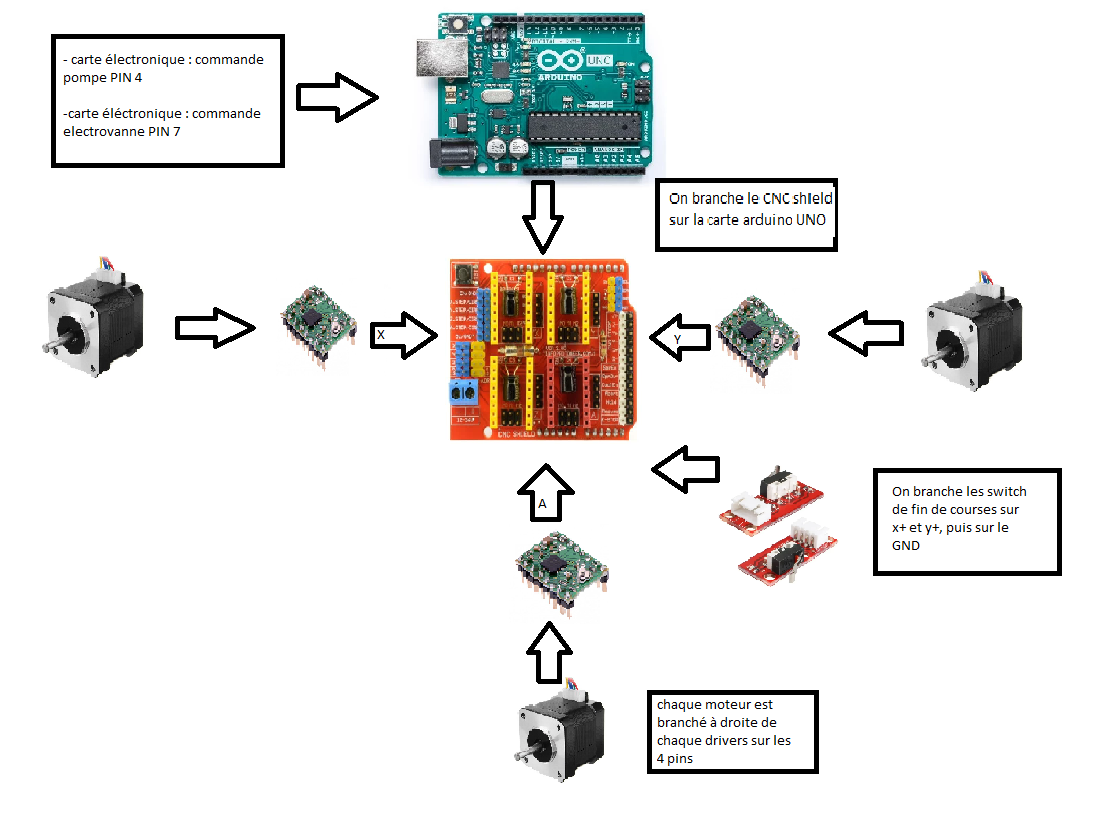
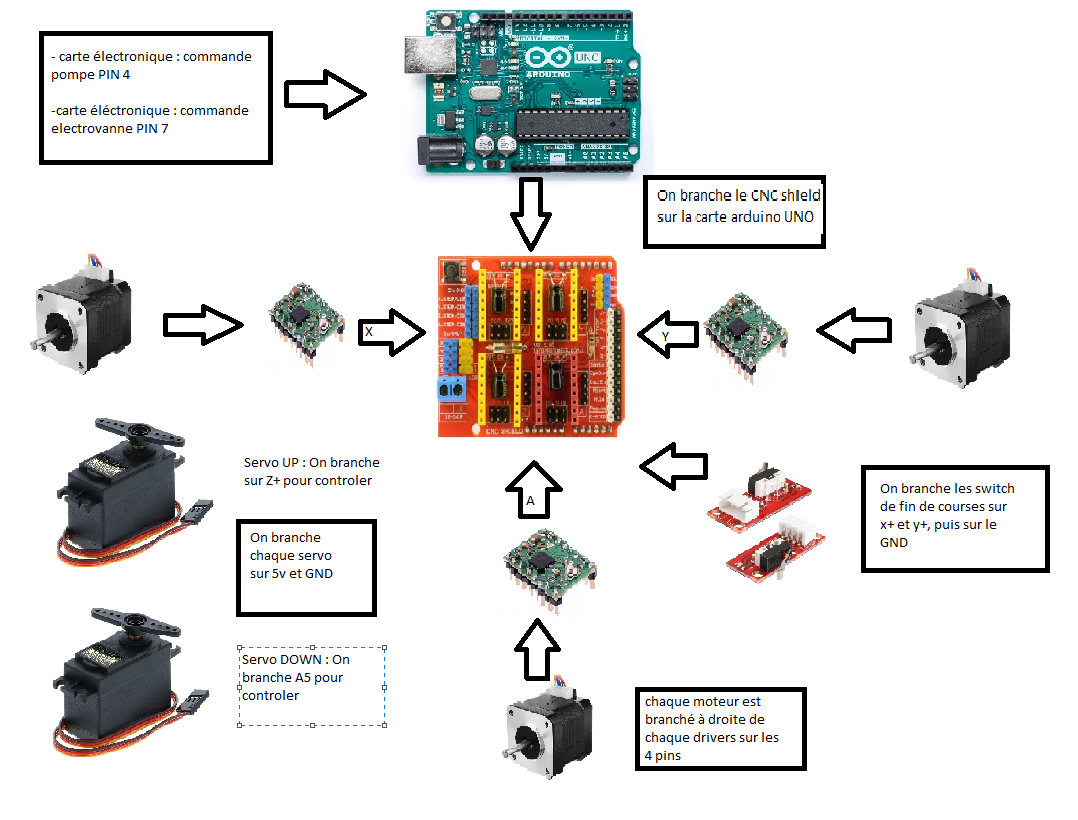
ffffdddd

diff --git a/docs/etapes/etape_3.md b/docs/etapes/etape_3.md
@@ -9,36 +9,36 @@ nav_order: 3
 
 ## Architecture Logicielle & Programmation
 
-[cite_start]Le contrôle du Puzzle Bot repose sur un écosystème logiciel divisé en deux parties principales : un **firmware embarqué sur mesure** (C++/Arduino) pour la gestion matérielle basse couche, et un **programme superviseur** (Python) pour l'intelligence artificielle et le traitement d'image[cite: 321, 326].
+Le contrôle du Puzzle Bot repose sur un écosystème logiciel divisé en deux parties principales : un **firmware embarqué sur mesure** (C++/Arduino) pour la gestion matérielle basse couche, et un **programme superviseur** (Python) pour l'intelligence artificielle et le traitement d'image.
 
-### 1. Firmware Arduino (Basse couche)
-[cite_start]Plutôt que d'utiliser un micrologiciel générique comme GRBL, incapable de gérer nativement nos deux servomoteurs et les cycles spécifiques de la pompe pneumatique, nous avons développé un **firmware C++ entièrement personnalisé**[cite: 316, 317, 318, 321].
+### Firmware Arduino
+Plutôt que d'utiliser un micrologiciel générique comme GRBL, incapable de gérer nativement nos deux servomoteurs et les cycles spécifiques de la pompe pneumatique, nous avons développé un firmware C++ entièrement personnalisé.
 
-[cite_start]Le code est structuré de manière modulaire afin d'isoler les responsabilités[cite: 325]:
-* [cite_start]`config.h` : Centralisation de l'ensemble des constantes, broches et calibrations mécaniques (ex: rapports de pas/mm)[cite: 296, 308].
-* [cite_start]`steppers.cpp` : Gestion des rampes d'accélération et déplacements synchronisés des axes X et Y[cite: 324].
-* [cite_start]`pick_place.cpp` : Séquencement temporel de la préhension (Descente du bras $\rightarrow$ temporisation $\rightarrow$ activation du vide $\rightarrow$ remontée)[cite: 324, 392].
-* [cite_start]`parser.cpp` : Analyseur syntaxique chargé de décoder les commandes envoyées sur le port série USB (115 200 bauds) selon un protocole textuel strict terminé par le mot-clé `END`[cite: 400, 401].
+Le code est structuré de manière modulaire afin d'isoler les responsabilités :
+* `config.h` : Centralisation de l'ensemble des constantes, broches et calibrations mécaniques (ex: rapports de pas/mm).
+* `steppers.cpp` : Gestion des rampes d'accélération et déplacements synchronisés des axes X et Y.
+* `pick_place.cpp` : Séquencement temporel de la préhension (Descente du bras, temporisation, activation du vide, remontée)
+* `parser.cpp` : Analyseur syntaxique chargé de décoder les commandes envoyées sur le port série USB selon un protocole textuel strict terminé par le mot-clé.
 
-### 2. Superviseur Python et Vision par Ordinateur
-[cite_start]L'intelligence du robot s'exécute sur un ordinateur via un script Python orchestrant la résolution[cite: 429]. 
+### Superviseur Python et Vision par Ordinateur
+L'intelligence du robot s'exécute sur un ordinateur via un script Python orchestrant la résolution. 
 
-#### A. Pipeline de traitement d'image (OpenCV)
-[cite_start]Une caméra grand angle capture le plateau de jeu[cite: 328]. [cite_start]L'image brute subit un pipeline de traitement numérique avant analyse pour maximiser sa netteté[cite: 339, 340]:
-1. [cite_start]**Correction de distorsion :** Redressement de l'image via des coefficients optiques calculés au préalable avec une mire d'échiquier[cite: 331, 332, 341].
-2. [cite_start]**Homographie et correction géométrique (TPS) :** Même après correction optique, la perspective et l'angle de la caméra introduisent des erreurs spatiales[cite: 365, 366]. [cite_start]Nous appliquons un algorithme mathématique **Thin Plate Spline (TPS)** basé sur une grille de calibration de 16 points réels[cite: 369, 372]. [cite_start]Cette correction réduit l'erreur moyenne de détection de plus de 50 % (passant de $0.3194$ à $0.1564$ unité), garantissant une précision millimétrique sur le plateau[cite: 485, 487, 488].
+#### Pipeline de traitement d'image
+Une caméra grand angle capture le plateau. L'image brute subit une série de traitement numérique avant analyse pour maximiser sa netteté:
+**Correction de distorsion :** Redressement de l'image via des coefficients optiques calculés au préalable avec une mire d'échiquier.
+**Homographie et correction géométrique (TPS) :** Même après correction optique, la perspective et l'angle de la caméra introduisent des erreurs spatiales. Nous appliquons un algorithme mathématique **Thin Plate Spline (TPS)** basé sur une grille de calibration de 16 points réels. Cette correction réduit l'erreur moyenne de détection de plus de 50 % (passant de $0.3194$ à $0.1564$ unité), garantissant une précision millimétrique sur le plateau
 
 #### B. Détection des pièces et angles (ArUco)
-[cite_start]Le script utilise la bibliothèque `OpenCV ArUco` pour localiser instantanément les 4 pièces disposées sur la zone de détection[cite: 329, 436]. [cite_start]Les coordonnées en pixels sont converties en pas moteurs réels grâce à des repères d'origine fixes installés sur le châssis[cite: 348, 358]. 
-[cite_start]L'angle de chaque pièce est calculé en comparant le vecteur d'orientation de son marqueur à l'axe de référence du robot[cite: 424, 425].
+Le script utilise la bibliothèque `OpenCV ArUco` pour localiser instantanément les 4 pièces disposées sur la zone de détection. Les coordonnées en pixels sont converties en pas moteurs réels grâce à des repères d'origine fixes installés sur le châssis.
+L'angle de chaque pièce est calculé en comparant le vecteur d'orientation de son marqueur à l'axe de référence du robot.
 
 ### 3. Cycle d'exécution et protocole d'échange (Handshake)
-[cite_start]La communication entre Python et l'Arduino est sécurisée par un mécanisme de *handshake* (poignée de main) pour éviter toute surcharge de la mémoire tampon de l'Arduino[cite: 405]:
-1. [cite_start]Python analyse le plateau par la caméra et génère une suite d'instructions (G-code personnalisé)[cite: 436, 437].
-2. [cite_start]Cette chaîne est découpée en micro-paquets (ex: `h;x4998s200;y3724s200;p1;END`)[cite: 403, 438].
-3. [cite_start]Python transmet un paquet et se met en attente[cite: 439].
-4. [cite_start]L'Arduino reçoit les ordres, les exécute fidèlement (déplacement, activation de l'électrovanne, etc.) puis retourne le signal `ACK` ou `OK` une fois la tâche physiquement accomplie[cite: 404, 439, 442].
-5. [cite_start]À la réception du signal de confirmation, Python envoie le paquet suivant[cite: 439].
+La communication entre Python et l'Arduino est sécurisée par un mécanisme de *handshake* (poignée de main) pour éviter toute surcharge de la mémoire tampon de l'Arduino
+Python analyse le plateau par la caméra et génère une suite d'instructions (G-code personnalisé).
+Cette chaîne est découpée en micro-paquets (ex: `h;x4998s200;y3724s200;p1;END`).
+Python transmet un paquet et se met en attente.
+L'Arduino reçoit les ordres, les exécute fidèlement (déplacement, activation de l'électrovanne, etc.) puis retourne le signal `ACK` ou `OK` une fois la tâche physiquement accomplie.
+À la réception du signal de confirmation, Python envoie le paquet suivant.
 
 
 # Electronique
@@ -46,27 +46,32 @@ nav_order: 3
 
 ## 🔌 Architecture Électronique & Câblage
 
-[cite_start]L'architecture électronique du Puzzle Bot est conçue autour d'une carte microcontrôleur **Arduino UNO** sur laquelle vient s'emboîter une carte d'extension **CNC Shield V3**. [cite_start]Cette configuration permet de centraliser la distribution de la puissance (12V) et les signaux de commande de l'ensemble des actionneurs et capteurs.
+L'architecture électronique du Puzzle Bot est conçue autour d'une carte microcontrôleur **Arduino UNO** sur laquelle vient s'emboîter une carte d'extension **CNC Shield V3**. Cette configuration permet de centraliser la distribution de la puissance (12V) et les signaux de commande de l'ensemble des actionneurs et capteurs.
+
+Voici le schéma synoptique de notre installation électronique (mettant en évidence les liaisons entre l'Arduino, le CNC Shield, les moteurs et les capteurs) :
+
+![Schéma de câblage](../images/SchémaDorian.png)
+
 
 ### 1. Tableau des connexions (Brochage)
 
-[cite_start]Pour garantir la maintenabilité du robot, l'intégralité du câblage physique a été répertoriée selon l'affectation suivante[cite: 296]:
+Pour garantir la maintenabilité du robot, l'intégralité du câblage physique a été répertoriée selon l'affectation suivante :
 
 | Composant | Broche Arduino | Rôle sur le CNC Shield | Type de signal |
 | :--- | :---: | :---: | :--- |
-| **Moteurs X (x2)** | D2 / D5 | X.STEP / X.DIR | [cite_start]Impulsions de commande (Miroir) [cite: 290, 446] |
-| **Moteur Y** | D3 / D6 | Y.STEP / Y.DIR | [cite_start]Impulsions de commande [cite: 447] |
-| **Fin de course X** | D9 | X+ | [cite_start]Entrée numérique (Pull-up) [cite: 295, 448] |
-| **Fin de course Y** | D10 | Y+ | [cite_start]Entrée numérique (Pull-up) [cite: 295, 449] |
-| **Servo Rotation** | D11 | Z+ | [cite_start]Sortie PWM (0-180°) [cite: 293, 416, 450] |
-| **Servo Z (Bras)** | A5 | SCL | [cite_start]Sortie PWM (Bit-banging) [cite: 292, 389, 451] |
-| **Pompe à vide** | D4 | Z.STEP | [cite_start]Commande Tout-ou-Rien (via MOSFET) [cite: 453] |
-| **Électrovanne** | D7 | Z.DIR | [cite_start]Commande Tout-ou-Rien (via MOSFET) [cite: 454] |
+| **Moteurs X (x2)** | D2 / D5 | X.STEP / X.DIR | Impulsions de commande (Miroir) |
+| **Moteur Y** | D3 / D6 | Y.STEP / Y.DIR | Impulsions de commande |
+| **Fin de course X** | D9 | X+ | Entrée numérique (Pull-up) |
+| **Fin de course Y** | D10 | Y+ | Entrée numérique (Pull-up) |
+| **Servo Rotation** | D11 | Z+ | Sortie PWM (0-180°) |
+| **Servo Z (Bras)** | A5 | SCL | Sortie PWM (Bit-banging) |
+| **Pompe à vide** | D4 | Z.STEP | Commande Tout-ou-Rien (via MOSFET) |
+| **Électrovanne** | D7 | Z.DIR | Commande Tout-ou-Rien (via MOSFET) |
 
 ### 2. Gestion de la puissance et carte MOSFET (KiCad)
-[cite_start]Les sorties de l'Arduino UNO délivrent un courant maximal insuffisant et une tension limitée à 5V[cite: 288, 445]. [cite_start]Or, l'électrovanne et la pompe pneumatique requièrent une alimentation stable en **12 Volts**. 
+Les sorties de l'Arduino UNO délivrent un courant maximal insuffisant et une tension limitée à 5V. Or, l'électrovanne et la pompe pneumatique requièrent une alimentation stable en **12 Volts**. 
 
-Pour résoudre ce problème, nous avons développé une carte électronique d'interface de puissance sous le logiciel **KiCad**. Cette carte intègre des transistors **MOSFET** faisant office de relais électroniques rapides. [cite_start]Lorsqu'un signal 5V est émis par les broches D4 ou D7 de l'Arduino, le MOSFET commute et libère la puissance de la ligne 12V pour actionner la pompe ou ouvrir la valve pneumatique[cite: 452, 453, 454].
+Pour résoudre ce problème, nous avons développé une carte électronique d'interface de puissance sous le logiciel **KiCad**. Cette carte intègre des transistors **MOSFET** faisant office de relais électroniques rapides. Lorsqu'un signal 5V est émis par les broches D4 ou D7 de l'Arduino, le MOSFET commute et libère la puissance de la ligne 12V pour actionner la pompe ou ouvrir la valve pneumatique.
 
 ### 3. Optimisation et routage
 Afin de fiabiliser le fonctionnement du robot et de libérer l'espace supérieur pour les déplacements du portique, l'ensemble des cartes électroniques (Arduino, CNC Shield, circuit MOSFET) a été implanté directement **sous le plateau** de la machine. Les câbles moteurs et capteurs ont été rallongés et guidés au travers du châssis pour éviter tout risque d'arrachement ou d'interférence avec la tête mobile.